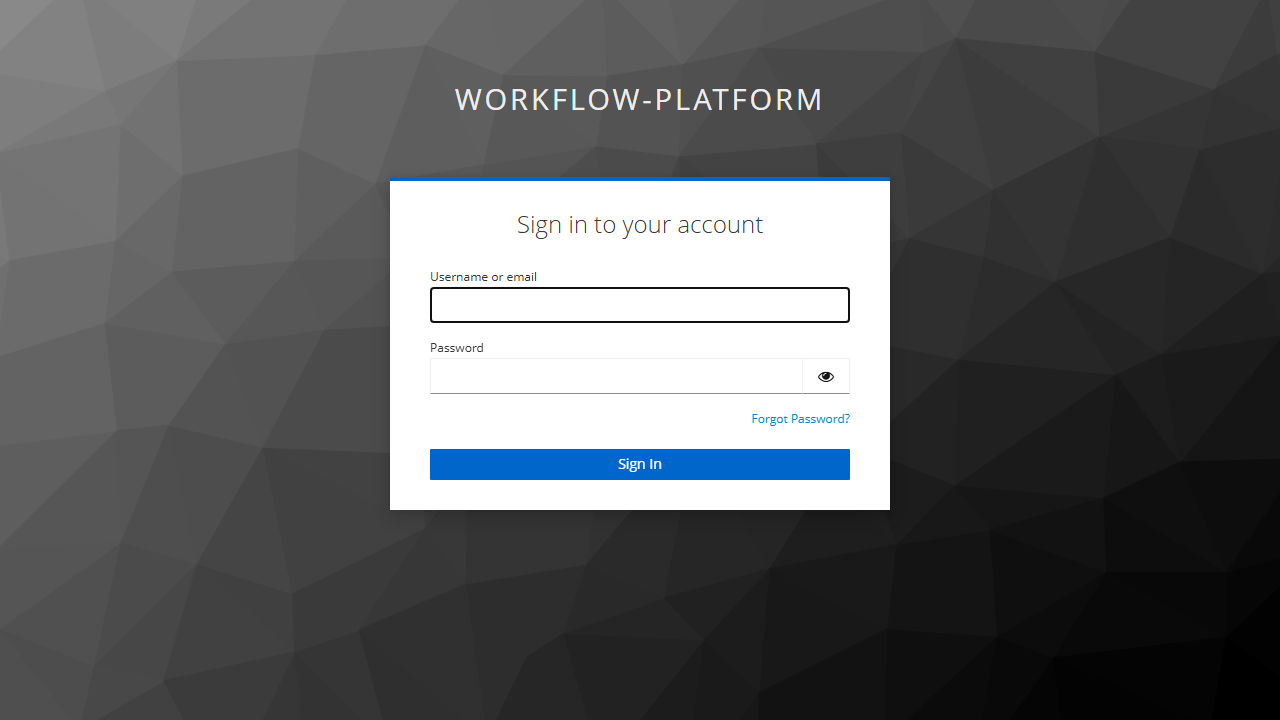
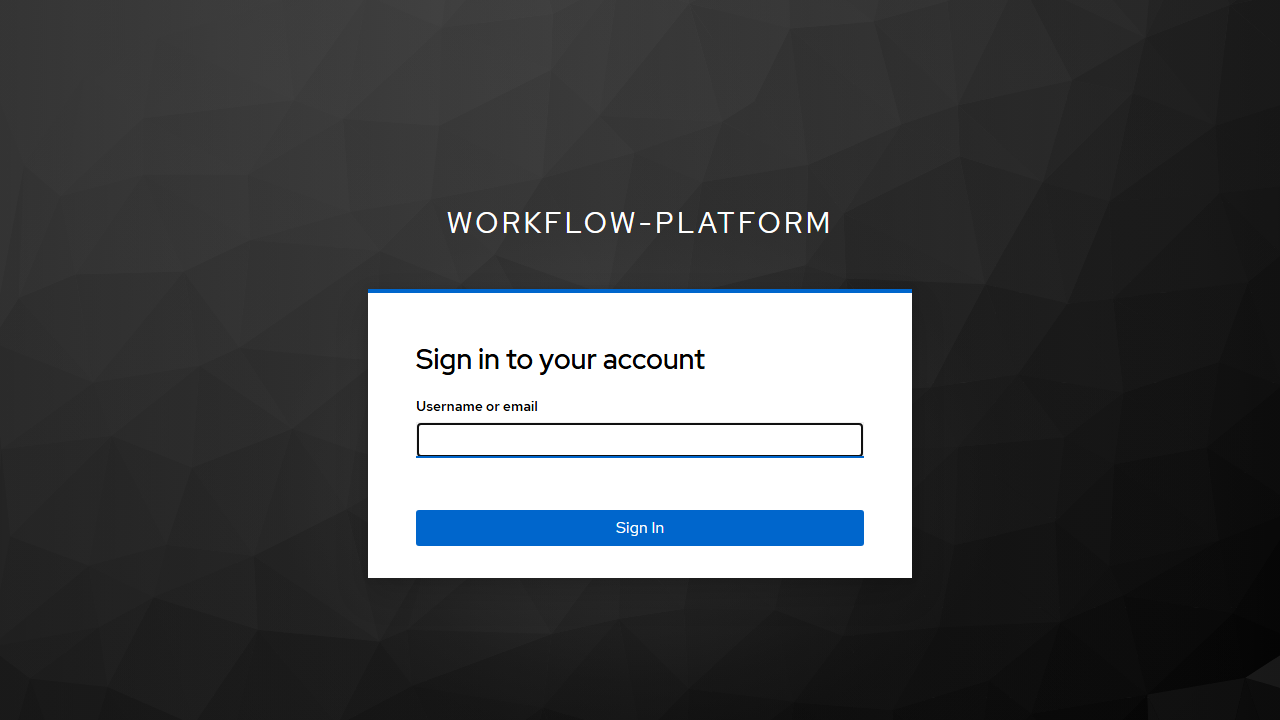
feat(auth): model tenants as Keycloak Organizations
Each tenant is now a Keycloak Organization whose alias is the existing
tenant id, so no stored data changes. The app reads the token's
organization claim instead of the tenant_id user attribute, and rejects
a token with no organization or with several, because it assumes one
tenant per token.

Organizations need Keycloak 26. Enabling them makes the login page ask
for the username first and the password on a second page.

Closes #76.

Claude-Session: https://claude.ai/code/session_01H6oLxJnsge8TU5WWPCgU5B

diff --git a/e2e/comprehensive.test.ts b/e2e/comprehensive.test.ts
@@ -146,13 +146,13 @@ test.describe('2. Authentication Tests', () => {
     }
   });
 
-  test('JWT contains expected claims (preferred_username, tenant_id)', async ({ request }) => {
+  test('JWT contains expected claims (preferred_username, organization)', async ({ request }) => {
     for (const [name, user] of Object.entries(USERS)) {
       const token = await getToken(request, user.username);
       const payload = decodeJwtPayload(token);
 
       expect(payload.preferred_username, `${name}: missing preferred_username`).toBe(user.username);
-      expect(payload.tenant_id, `${name}: missing tenant_id`).toBe(user.tenant);
+      expect(payload.organization, `${name}: wrong organization`).toEqual([user.tenant]);
     }
   });
 

diff --git a/e2e/screenshots.test.ts b/e2e/screenshots.test.ts
@@ -7,6 +7,7 @@ const WEB_URL = 'http://localhost:5175';
 async function login(page: Page, username: string) {
   await page.goto(WEB_URL);
   await page.getByRole('textbox', { name: 'Username or email' }).fill(username);
+  await page.getByRole('button', { name: 'Sign In' }).click();
   await page.getByRole('textbox', { name: 'Password' }).fill('password');
   await page.getByRole('button', { name: 'Sign In' }).click();
   await expect(page.getByRole('heading', { name: 'My work' })).toBeVisible({ timeout: 20000 });

diff --git a/e2e/tracker.test.ts b/e2e/tracker.test.ts
@@ -12,6 +12,7 @@ const title = `Tracker flow ${projectKey}`;
 async function login(page: Page, username: string) {
   await page.goto(WEB_URL);
   await page.getByLabel('Username or email').fill(username);
+  await page.getByRole('button', { name: 'Sign In' }).click();
   await page.getByLabel('Password', { exact: true }).fill('password');
   await page.getByRole('button', { name: 'Sign In' }).click();
   await expect(page.getByRole('heading', { name: 'My work' })).toBeVisible({ timeout: 20000 });

diff --git a/frontend/apps/web/src/shared-ui/auth/AuthProvider.tsx b/frontend/apps/web/src/shared-ui/auth/AuthProvider.tsx
@@ -76,7 +76,7 @@ export function AuthProvider({ children, keycloakUrl, realm, clientId }: AuthPro
     initialized,
     authenticated,
     token: keycloak.token,
-    tenantId: tokenParsed?.tenant_id as string | undefined,
+    tenantId: (tokenParsed?.organization as string[] | undefined)?.[0],
     userId: tokenParsed?.sub,
     username: tokenParsed?.preferred_username as string | undefined,
     roles: (tokenParsed?.realm_access?.roles as string[]) ?? [],

diff --git a/frontend/apps/web/src/shared-ui/auth/AuthProvider.test.tsx b/frontend/apps/web/src/shared-ui/auth/AuthProvider.test.tsx
@@ -51,7 +51,7 @@ describe('AuthProvider', () => {
     keycloak.token = 'token-1';
     keycloak.tokenParsed = {
       sub: 'user-1',
-      tenant_id: 'tenant-a',
+      organization: ['tenant-a'],
       preferred_username: 'alice',
       realm_access: { roles: ['user'] },
     };

diff --git a/services/app/src/test/java/com/wfp/workflow/AuditControllerTest.java b/services/app/src/test/java/com/wfp/workflow/AuditControllerTest.java
@@ -14,6 +14,8 @@ import org.springframework.test.web.servlet.MockMvc;
 
 import java.time.Instant;
 
+import java.util.List;
+
 import static org.springframework.security.test.web.servlet.request.SecurityMockMvcRequestPostProcessors.jwt;
 import static org.springframework.test.web.servlet.request.MockMvcRequestBuilders.*;
 import static org.springframework.test.web.servlet.result.MockMvcResultMatchers.*;
@@ -52,7 +54,7 @@ class AuditControllerTest {
     void shouldQueryAuditEntries() throws Exception {
         mockMvc.perform(get("/api/audit")
                         .with(jwt().jwt(j -> j.claim("preferred_username", "admin")
-                                .claim("tenant_id", "tenant-test")).authorities(TestRoles.ADMIN))
+                                .claim("organization", List.of("tenant-test"))).authorities(TestRoles.ADMIN))
                         .header("X-Tenant-Id", "tenant-test"))
                 .andExpect(status().isOk())
                 .andExpect(jsonPath("$.content").isArray())
@@ -64,7 +66,7 @@ class AuditControllerTest {
     void shouldFilterByEntityType() throws Exception {
         mockMvc.perform(get("/api/audit")
                         .with(jwt().jwt(j -> j.claim("preferred_username", "admin")
-                                .claim("tenant_id", "tenant-test")).authorities(TestRoles.ADMIN))
+                                .claim("organization", List.of("tenant-test"))).authorities(TestRoles.ADMIN))
                         .header("X-Tenant-Id", "tenant-test")
                         .param("entityType", "TASK"))
                 .andExpect(status().isOk())
@@ -75,7 +77,7 @@ class AuditControllerTest {
     void shouldEnforceTenantIsolation() throws Exception {
         mockMvc.perform(get("/api/audit")
                         .with(jwt().jwt(j -> j.claim("preferred_username", "admin")
-                                .claim("tenant_id", "tenant-other")).authorities(TestRoles.ADMIN))
+                                .claim("organization", List.of("tenant-other"))).authorities(TestRoles.ADMIN))
                         .header("X-Tenant-Id", "tenant-other"))
                 .andExpect(status().isOk())
                 .andExpect(jsonPath("$.content").isEmpty());
@@ -85,7 +87,7 @@ class AuditControllerTest {
     void shouldIgnoreForgedTenantHeader() throws Exception {
         mockMvc.perform(get("/api/audit")
                         .with(jwt().jwt(j -> j.claim("preferred_username", "admin")
-                                .claim("tenant_id", "tenant-other")).authorities(TestRoles.ADMIN))
+                                .claim("organization", List.of("tenant-other"))).authorities(TestRoles.ADMIN))
                         .header("X-Tenant-Id", "tenant-test"))
                 .andExpect(status().isOk())
                 .andExpect(jsonPath("$.content").isEmpty());

diff --git a/services/app/src/test/java/com/wfp/workflow/DeploymentControllerTest.java b/services/app/src/test/java/com/wfp/workflow/DeploymentControllerTest.java
@@ -14,6 +14,8 @@ import org.springframework.security.test.context.support.WithMockUser;
 import org.springframework.test.context.ActiveProfiles;
 import org.springframework.test.web.servlet.MockMvc;
 
+import java.util.List;
+
 import static org.springframework.security.test.web.servlet.request.SecurityMockMvcRequestPostProcessors.jwt;
 import static org.springframework.test.web.servlet.request.MockMvcRequestBuilders.*;
 import static org.springframework.test.web.servlet.result.MockMvcResultMatchers.*;
@@ -62,7 +64,7 @@ class DeploymentControllerTest {
 
         mockMvc.perform(post("/api/workflow/deployments")
                         .with(jwt().jwt(j -> j.claim("preferred_username", "admin")
-                                .claim("tenant_id", "tenant-test")).authorities(TestRoles.ADMIN))
+                                .claim("organization", List.of("tenant-test"))).authorities(TestRoles.ADMIN))
                         .header("X-Tenant-Id", "tenant-test")
                         .contentType(MediaType.APPLICATION_JSON)
                         .content(objectMapper.writeValueAsString(request)))
@@ -79,14 +81,14 @@ class DeploymentControllerTest {
 
         mockMvc.perform(post("/api/workflow/deployments")
                         .with(jwt().jwt(j -> j.claim("preferred_username", "admin")
-                                .claim("tenant_id", "tenant-list")).authorities(TestRoles.ADMIN))
+                                .claim("organization", List.of("tenant-list"))).authorities(TestRoles.ADMIN))
                         .contentType(MediaType.APPLICATION_JSON)
                         .content(objectMapper.writeValueAsString(request)))
                 .andExpect(status().isCreated());
 
         mockMvc.perform(get("/api/workflow/deployments")
                         .with(jwt().jwt(j -> j.claim("preferred_username", "admin")
-                                .claim("tenant_id", "tenant-list")).authorities(TestRoles.ADMIN)))
+                                .claim("organization", List.of("tenant-list"))).authorities(TestRoles.ADMIN)))
                 .andExpect(status().isOk())
                 .andExpect(jsonPath("$.length()").value(1))
                 .andExpect(jsonPath("$[0].id").exists())

diff --git a/services/app/src/test/java/com/wfp/security/filter/TenantInterceptorTest.java b/services/app/src/test/java/com/wfp/security/filter/TenantInterceptorTest.java
@@ -10,6 +10,8 @@ import org.springframework.security.core.context.SecurityContextHolder;
 import org.springframework.security.oauth2.jwt.Jwt;
 import org.springframework.security.oauth2.server.resource.authentication.JwtAuthenticationToken;
 
+import java.util.List;
+
 import static org.assertj.core.api.Assertions.assertThat;
 import static org.assertj.core.api.Assertions.assertThatThrownBy;
 
@@ -35,7 +37,7 @@ class TenantInterceptorTest {
 
     @Test
     void rejectsJwtWithoutTenantClaim() {
-        authenticateWith(jwt(null));
+        authenticateWith(jwt());
         MockHttpServletRequest request = new MockHttpServletRequest();
         request.addHeader("X-Tenant-Id", "tenant-b");
 
@@ -44,12 +46,23 @@ class TenantInterceptorTest {
         assertThat(TenantContext.getCurrentTenantId()).isNull();
     }
 
-    private static Jwt jwt(String tenantId) {
+    @Test
+    void rejectsJwtWithSeveralOrganizations() {
+        authenticateWith(jwt("tenant-a", "tenant-b"));
+
+        assertThatThrownBy(() -> interceptor.preHandle(new MockHttpServletRequest(), new MockHttpServletResponse(),
+                new Object()))
+                .isInstanceOf(ForbiddenException.class)
+                .hasMessage("Token belongs to several organizations");
+        assertThat(TenantContext.getCurrentTenantId()).isNull();
+    }
+
+    private static Jwt jwt(String... organizations) {
         Jwt.Builder builder = Jwt.withTokenValue("token")
                 .header("alg", "none")
                 .claim("preferred_username", "user");
-        if (tenantId != null) {
-            builder.claim(TenantInterceptor.TENANT_CLAIM, tenantId);
+        if (organizations.length > 0) {
+            builder.claim(TenantInterceptor.ORGANIZATION_CLAIM, List.of(organizations));
         }
         return builder.build();
     }

diff --git a/services/app/src/test/java/com/wfp/workflow/ItemControllerTest.java b/services/app/src/test/java/com/wfp/workflow/ItemControllerTest.java
@@ -407,7 +407,7 @@ class ItemControllerTest {
     @Test
     void anotherTenantCannotEditAProject() throws Exception {
         mockMvc.perform(put("/api/projects/PROJ").with(jwt().jwt(token -> token.claim("preferred_username", "mallory")
-                                .claim("tenant_id", "tenant-other")).authorities(TestRoles.ADMIN))
+                                .claim("organization", List.of("tenant-other"))).authorities(TestRoles.ADMIN))
                         .contentType(MediaType.APPLICATION_JSON)
                         .content("""
                                 {"name":"Stolen","itemTypes":[{"name":"Task","workflowKey":"simple"}]}
@@ -540,7 +540,7 @@ class ItemControllerTest {
     }
 
     private RequestPostProcessor otherTenantUser() {
-        return jwt().jwt(token -> token.claim("preferred_username", "mallory").claim("tenant_id", "tenant-other"))
+        return jwt().jwt(token -> token.claim("preferred_username", "mallory").claim("organization", List.of("tenant-other")))
                 .authorities(TestRoles.USER);
     }
 
@@ -564,7 +564,7 @@ class ItemControllerTest {
     private ResultActions send(MockHttpServletRequestBuilder request, String tenantId, String user, String body)
             throws Exception {
         request.with(jwt().jwt(token -> token.claim("preferred_username", user)
-                .claim("tenant_id", tenantId)).authorities("admin".equals(user) ? TestRoles.ADMIN : TestRoles.USER));
+                .claim("organization", List.of(tenantId))).authorities("admin".equals(user) ? TestRoles.ADMIN : TestRoles.USER));
         if (body != null) {
             request.contentType(MediaType.APPLICATION_JSON).content(body);
         }

diff --git a/services/app/src/main/java/com/wfp/security/filter/TenantInterceptor.java b/services/app/src/main/java/com/wfp/security/filter/TenantInterceptor.java
@@ -12,11 +12,13 @@ import org.springframework.security.oauth2.server.resource.authentication.JwtAut
 import org.springframework.stereotype.Component;
 import org.springframework.web.servlet.HandlerInterceptor;
 
+import java.util.List;
+
 @Slf4j
 @Component
 public class TenantInterceptor implements HandlerInterceptor {
 
-    public static final String TENANT_CLAIM = "tenant_id";
+    public static final String ORGANIZATION_CLAIM = "organization";
 
     @Override
     public boolean preHandle(HttpServletRequest request, HttpServletResponse response, Object handler) {
@@ -26,13 +28,18 @@ public class TenantInterceptor implements HandlerInterceptor {
 
         Jwt jwt = jwtAuth.getToken();
         String userId = jwt.getClaimAsString("preferred_username");
-        String tenantId = jwt.getClaimAsString(TENANT_CLAIM);
+        List<String> organizations = jwt.getClaimAsStringList(ORGANIZATION_CLAIM);
 
-        if (tenantId == null || tenantId.isBlank()) {
-            log.warn("Rejected token for '{}' without a '{}' claim", userId, TENANT_CLAIM);
+        if (organizations == null || organizations.isEmpty()) {
+            log.warn("Rejected token for '{}' without a '{}' claim", userId, ORGANIZATION_CLAIM);
             throw new ForbiddenException("Token has no tenant");
         }
+        if (organizations.size() > 1) {
+            log.warn("Rejected token for '{}' with several organizations", userId);
+            throw new ForbiddenException("Token belongs to several organizations");
+        }
 
+        String tenantId = organizations.getFirst();
         TenantContext.setCurrentTenantId(tenantId);
         MDC.put("tenantId", tenantId);
         if (userId != null) {

diff --git a/services/app/src/test/java/com/wfp/workflow/ItemFilterQueryTest.java b/services/app/src/test/java/com/wfp/workflow/ItemFilterQueryTest.java
@@ -16,6 +16,7 @@ import org.springframework.test.web.servlet.ResultActions;
 import org.springframework.test.web.servlet.request.MockHttpServletRequestBuilder;
 import org.testcontainers.postgresql.PostgreSQLContainer;
 
+import java.util.List;
 import java.util.UUID;
 
 import static org.springframework.security.test.web.servlet.request.SecurityMockMvcRequestPostProcessors.jwt;
@@ -146,7 +147,7 @@ class ItemFilterQueryTest {
     void keepsAnotherTenantsItemsOutOfTheResult() throws Exception {
         mockMvc.perform(get("/api/items?filter=cf.severity:eq:High")
                         .with(jwt().jwt(token -> token.claim("preferred_username", "mallory")
-                                .claim("tenant_id", "tenant-other")).authorities(TestRoles.USER)))
+                                .claim("organization", List.of("tenant-other"))).authorities(TestRoles.USER)))
                 .andExpect(jsonPath("$.totalElements").value(0));
     }
 
@@ -172,7 +173,7 @@ class ItemFilterQueryTest {
 
     private ResultActions perform(MockHttpServletRequestBuilder request, String user, String body) throws Exception {
         request.with(jwt().jwt(token -> token.claim("preferred_username", user)
-                .claim("tenant_id", tenant))
+                .claim("organization", List.of(tenant)))
                 .authorities("admin".equals(user) ? TestRoles.ADMIN : TestRoles.USER));
         if (body != null) {
             request.contentType(MediaType.APPLICATION_JSON).content(body);

diff --git a/services/app/src/test/java/com/wfp/workflow/TenantWriteIsolationTest.java b/services/app/src/test/java/com/wfp/workflow/TenantWriteIsolationTest.java
@@ -11,6 +11,8 @@ import org.springframework.test.context.ActiveProfiles;
 import org.springframework.test.web.servlet.MockMvc;
 import org.springframework.test.web.servlet.ResultActions;
 
+import java.util.List;
+
 import static org.assertj.core.api.Assertions.assertThat;
 import static org.springframework.security.test.web.servlet.request.SecurityMockMvcRequestPostProcessors.jwt;
 import static org.springframework.test.web.servlet.request.MockMvcRequestBuilders.delete;
@@ -76,7 +78,7 @@ class TenantWriteIsolationTest {
     private ResultActions deleteDeploymentAs(String tenantId) throws Exception {
         return mockMvc.perform(delete("/api/workflow/deployments/{id}", deploymentId)
                 .with(jwt().jwt(token -> token.claim("preferred_username", "user-" + tenantId)
-                        .claim("tenant_id", tenantId)).authorities(TestRoles.ADMIN)));
+                        .claim("organization", List.of(tenantId))).authorities(TestRoles.ADMIN)));
     }
 
     private boolean deploymentExists() {
